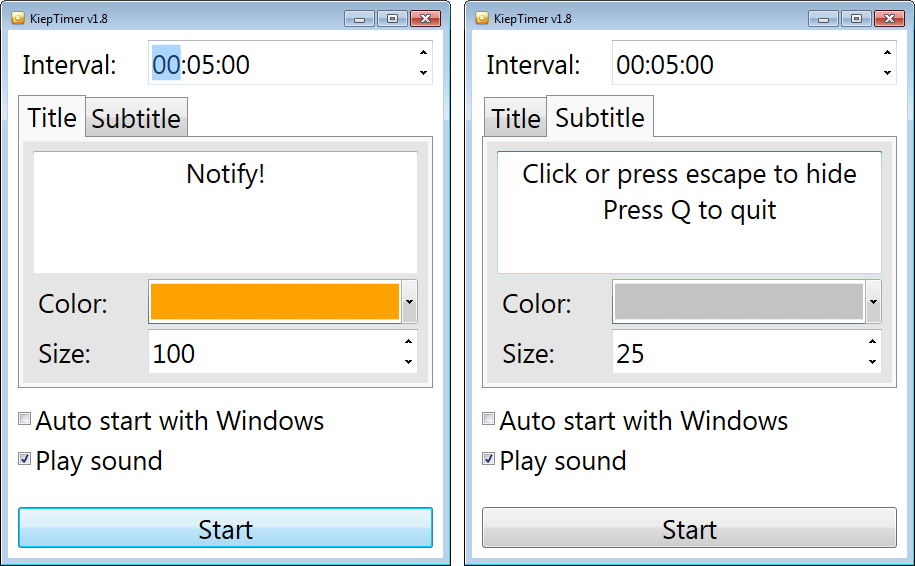
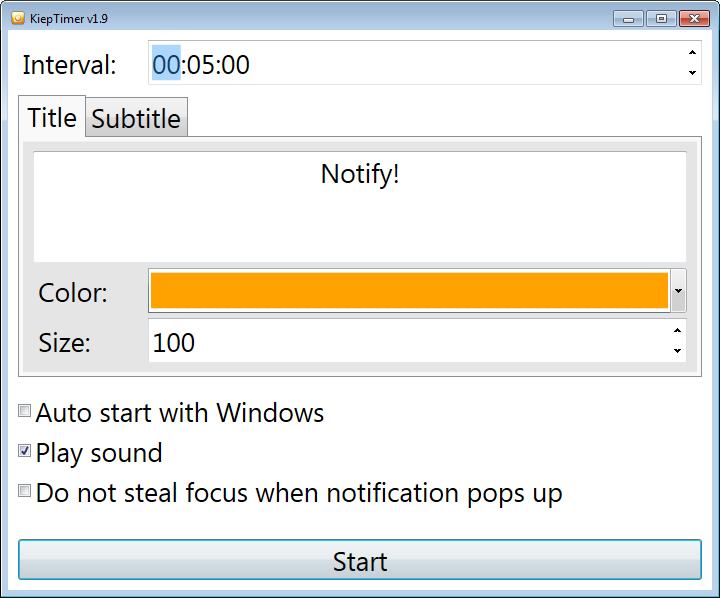
Added option to not steal focus

diff --git a/MainWindow.xaml b/MainWindow.xaml
@@ -8,13 +8,13 @@
         xmlns:xctk="http://schemas.xceed.com/wpf/xaml/toolkit"
         xmlns:tb="http://www.hardcodet.net/taskbar"
         mc:Ignorable="d"
-        Title="KiepTimer" Height="566.229" Width="450.956" Icon="Icon.ico" WindowStartupLocation="CenterScreen" FontSize="26.667" Closed="Window_Closed" MinWidth="290" MinHeight="490">
+        Title="KiepTimer" Height="598.229" Width="719.956" Icon="Icon.ico" WindowStartupLocation="CenterScreen" FontSize="26.667" Closed="Window_Closed" MinWidth="290" MinHeight="490">
 
     <Grid>
         <Label Content="{x:Static p:Resources.Interval}" Margin="10,10,0,0" Height="45" VerticalAlignment="Top" HorizontalAlignment="Left"/>
         <xctk:TimeSpanUpDown x:Name="interval" Margin="140,10,10,0" CultureInfo="nl-NL" DefaultValue="0:5:0" Minimum="0:0:5" Maximum="23:59:59" Text="00:05:00" ClipValueToMinMax="True" DisplayDefaultValueOnEmptyText="True" Height="45" VerticalAlignment="Top" TextAlignment="Left"/>
 
-        <TabControl Margin="10,65,10,170">
+        <TabControl Margin="10,65,10,213">
             <TabItem Header="{x:Static p:Resources.Title}">
                 <Grid Background="#FFE5E5E5">
 
@@ -43,8 +43,9 @@
 
 
 
-        <CheckBox x:Name="cbAutoStart" Content="{x:Static p:Resources.StartWithWindows}" Margin="10,0,10,122" Grid.ColumnSpan="2" Height="35" VerticalAlignment="Bottom" Checked="cbAutoStart_CheckedChanged" Unchecked="cbAutoStart_CheckedChanged"/>
-        <CheckBox x:Name="cbSound" Content="{x:Static p:Resources.PlaySound}" Margin="10,0,10,82" Grid.ColumnSpan="2" Height="35" VerticalAlignment="Bottom"/>
+        <CheckBox x:Name="cbAutoStart" Content="{x:Static p:Resources.StartWithWindows}" Margin="10,0,10,162" Height="35" VerticalAlignment="Bottom" Checked="cbAutoStart_CheckedChanged" Unchecked="cbAutoStart_CheckedChanged"/>
+        <CheckBox x:Name="cbSound" Content="{x:Static p:Resources.PlaySound}" Margin="10,0,10,122" Grid.ColumnSpan="2" Height="35" VerticalAlignment="Bottom"/>
+        <CheckBox x:Name="cbNoStealFocus" Content="{x:Static p:Resources.NoStealFocus}" Margin="10,0,10,82" Height="35" VerticalAlignment="Bottom"/>
 
         <Button x:Name="button" Content="{x:Static p:Resources.Start}" Grid.Column="1" Margin="10,0,10,10" Height="41" VerticalAlignment="Bottom" Click="button_Click" IsCancel="True" IsDefault="True"/>
 

diff --git a/Notification.xaml.cs b/Notification.xaml.cs
@@ -12,6 +12,7 @@ namespace KiepTimer
         private System.Windows.Media.MediaPlayer showNotificationPlayer = new System.Windows.Media.MediaPlayer();
         private System.Windows.Media.MediaPlayer hideNotificationPlayer = new System.Windows.Media.MediaPlayer();
         private bool playSound;
+        private bool noStealFocus;
 
         public Notification()
         {
@@ -41,7 +42,7 @@ namespace KiepTimer
             hideNotificationPlayer.Open(new Uri("SoundHide.wav", UriKind.Relative));
         }
 
-        public void StartTimer(TimeSpan interval, string titleText, Color titleColor, int titleFontSize, string subtitleText, Color subtitleColor, int subtitleFontSize, bool playSound)
+        public void StartTimer(TimeSpan interval, string titleText, Color titleColor, int titleFontSize, string subtitleText, Color subtitleColor, int subtitleFontSize, bool playSound, bool noStealFocus)
         {
             textblockTitle.Text = titleText;
             textblockTitle.Foreground = new SolidColorBrush(titleColor);
@@ -50,6 +51,7 @@ namespace KiepTimer
             textblockSubtitle.Foreground = new SolidColorBrush(subtitleColor);
             textblockSubtitle.FontSize = subtitleFontSize;
 
+            this.noStealFocus = noStealFocus;
             this.playSound = playSound;
             if (playSound)
             {
@@ -75,6 +77,17 @@ namespace KiepTimer
                 showNotificationPlayer.Play();
             }
             timer.Stop();
+
+            if (noStealFocus) {
+                ShowActivated = false;
+                Topmost = true;
+                WindowState = WindowState.Normal;
+                Width = System.Windows.SystemParameters.PrimaryScreenWidth;
+                Height = System.Windows.SystemParameters.PrimaryScreenHeight;
+                Top = 0;
+                Left = 0;
+            }     
+
             Show();
         }
 

diff --git a/MainWindow.xaml.cs b/MainWindow.xaml.cs
@@ -31,6 +31,7 @@ namespace KiepTimer
             colorPickerSubtitle.SelectedColor = Properties.Settings.Default.SubtitleColor;
             fontSizeSubtitle.Value = Properties.Settings.Default.SubtitleFontSize;
             cbSound.IsChecked = Properties.Settings.Default.PlaySound;
+            cbNoStealFocus.IsChecked = Properties.Settings.Default.NoStealFocus;
             cbAutoStart.IsChecked = IsAutoStart();
 
             if (string.IsNullOrEmpty(textTitle.Text))
@@ -53,7 +54,7 @@ namespace KiepTimer
             notification.StartTimer(interval.Value.GetValueOrDefault(), 
                 textTitle.Text, colorPickerTitle.SelectedColor.GetValueOrDefault(), fontSizeTitle.Value.GetValueOrDefault(),
                 textSubtitle.Text, colorPickerSubtitle.SelectedColor.GetValueOrDefault(), fontSizeSubtitle.Value.GetValueOrDefault(),
-                cbSound.IsChecked.GetValueOrDefault());
+                cbSound.IsChecked.GetValueOrDefault(), cbNoStealFocus.IsChecked.GetValueOrDefault());
         }
 
         private void SaveSettings()
@@ -66,6 +67,7 @@ namespace KiepTimer
             Properties.Settings.Default.SubtitleColor = colorPickerSubtitle.SelectedColor.GetValueOrDefault();
             Properties.Settings.Default.SubtitleFontSize = fontSizeSubtitle.Value.GetValueOrDefault();
             Properties.Settings.Default.PlaySound = cbSound.IsChecked.GetValueOrDefault();
+            Properties.Settings.Default.NoStealFocus = cbNoStealFocus.IsChecked.GetValueOrDefault();
             Properties.Settings.Default.Save();
         }
 

diff --git a/Properties/Settings.Designer.cs b/Properties/Settings.Designer.cs
@@ -118,5 +118,17 @@ namespace KiepTimer.Properties {
                 this["SubtitleFontSize"] = value;
             }
         }
+        
+        [global::System.Configuration.UserScopedSettingAttribute()]
+        [global::System.Diagnostics.DebuggerNonUserCodeAttribute()]
+        [global::System.Configuration.DefaultSettingValueAttribute("False")]
+        public bool NoStealFocus {
+            get {
+                return ((bool)(this["NoStealFocus"]));
+            }
+            set {
+                this["NoStealFocus"] = value;
+            }
+        }
     }
 }

diff --git a/Properties/Resources.Designer.cs b/Properties/Resources.Designer.cs
@@ -98,6 +98,15 @@ namespace KiepTimer.Properties {
         }
         
         /// <summary>
+        ///   Looks up a localized string similar to Do not steal focus when notification pops up.
+        /// </summary>
+        public static string NoStealFocus {
+            get {
+                return ResourceManager.GetString("NoStealFocus", resourceCulture);
+            }
+        }
+        
+        /// <summary>
         ///   Looks up a localized string similar to Play sound.
         /// </summary>
         public static string PlaySound {

diff --git a/Properties/AssemblyInfo.cs b/Properties/AssemblyInfo.cs
@@ -51,5 +51,5 @@ using System.Windows;
 // You can specify all the values or you can default the Build and Revision Numbers 
 // by using the '*' as shown below:
 // [assembly: AssemblyVersion("1.0.*")]
-[assembly: AssemblyVersion("1.8.0.0")]
-[assembly: AssemblyFileVersion("1.8.0.0")]
+[assembly: AssemblyVersion("1.9.0.0")]
+[assembly: AssemblyFileVersion("1.9.0.0")]

diff --git a/README.md b/README.md
@@ -8,9 +8,11 @@ Features:
  - Configurable notification text, color and size
  - Auto start with Windows
  - Notification sound
+ - Have notification steal focus or not
  - Shows icon in system tray while in background
  - Dutch and English language support
 
 ![Screenshot](Screenshot2.png "Screenshot")
+![Screenshot](Screenshot3.png "Screenshot")
  
 ![Screenshot](Screenshot.png "Screenshot")
